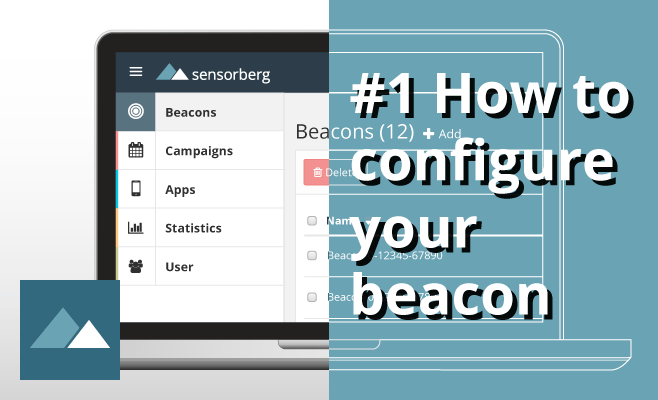
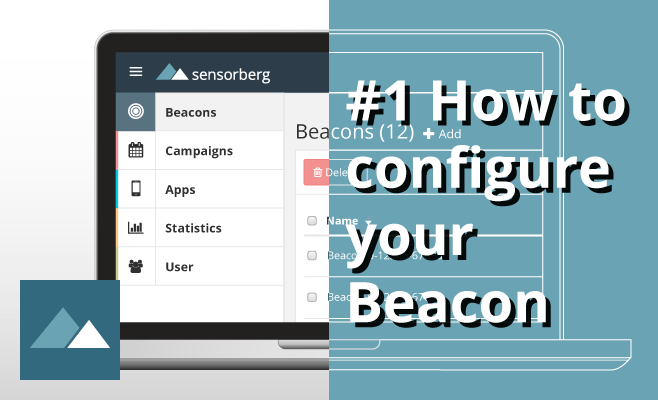
Clean up Tutorials Section
- change col-md to col-xs to fit into iframe
- adjust headline
- change images / wording
- remove padding / margin surrounding iframe content

Changed region(s): [[0.5167, 0.18, 0.9726, 0.54], [0.5167, 0.54, 0.8511, 0.84]]

diff --git a/_layouts/video-iframe.html b/_layouts/video-iframe.html
@@ -25,7 +25,7 @@
 
     .contents-block {
         text-align: justify;
-        padding-bottom: 30px;
+        padding-bottom: 10px;
     }
 
     .content
@@ -66,9 +66,7 @@
     .container3 {
         max-width: 940px;
         min-width: 320px;
-        margin: 5px auto;
-        margin-top: 40px ;
-        margin-bottom: 30px ;
+        margin: 0px auto;
         border-radius:6px;
     }
 
@@ -112,7 +110,7 @@
 </style>
 <div class="container3 container_video" >
     <div class="row">
-        <div class="col-md-8">
+        <div class="col-xs-8">
             <a href="/tutorials-iframe"><span class="back-link"><i class="fa fa-chevron-left"></i><!--<i class="fa fa-long-arrow-left"></i>--> Back to the tutorials' overview</span></a>
             <h2> {{page.title}}</h2>
         </div>
@@ -121,16 +119,16 @@
     </br>
 
     <div class="row">
-        <div class="col-md-8">
+        <div class="col-xs-8">
             <iframe class="video-iframe" width="604" height="370" src="{{page.video_url}}" frameborder="0" allowfullscreen></iframe>
         </div>
 
-        <div class="col-md-4 video-description">
+        <div class="col-xs-4 video-description">
 
             <div class="contents-block">
 
-                <b>Description</b></br>
-                {{page.description}}
+                <b>Description</b>
+                <p>{{page.description}}</p>
             </div>
 
             <div class="see-also-video">

diff --git a/_includes/tutorials-content.html b/_includes/tutorials-content.html
@@ -21,6 +21,7 @@
     .tutorials-headline {
         font-size: 32px;
         font-weight: 400;
+        padding: 0 30px 20px 30px;
     }
 
     .nav-tabs {
@@ -123,7 +124,7 @@
         {%for video in site.videos %}
         {% if video.category == "gettingStarted" %}
 
-        <div class="col-md-4">
+        <div class="col-xs-4">
             <div class="feature-block3">
                 <div class="thumbnail-width">
                     <a href="{{ video.url }}" {% if page.iframe %} target="_blank"{% endif %}><img src="{{ video.previewImage }}" alt="{{ video.title }}" class="video-thumb"></a>

diff --git a/_includes/tutorials-content-iframe.html b/_includes/tutorials-content-iframe.html
@@ -17,6 +17,7 @@
     .tutorials-headline {
         font-size: 32px;
         font-weight: 400;
+        padding: 0 30px 20px 30px;
     }
 
     .nav-tabs {
@@ -117,7 +118,7 @@
         {%for video in site.videos-iframe %}
         {% if video.category == "gettingStarted" %}
 
-        <div class="col-md-4">
+        <div class="col-xs-4">
             <div class="feature-block3">
                 <div class="thumbnail-width">
                     <a href="{{ video.url }}" ><img src="{{ video.previewImage }}" alt="{{ video.title }}" class="video-thumb"></a>

diff --git a/_videos-iframe/04-How-to-create-a-beacon-campaign.md b/_videos-iframe/04-How-to-create-a-beacon-campaign.md
@@ -1,14 +1,14 @@
 ---
 layout: video-iframe
-title: "#4 How to create a beacon campaign"
+title: "#4 How to create a Beacon campaign"
 previewImage: /images/videos/video04-how-to-create-a-beacon-campaign.png
-description: "This tutorial shows you how to manage the campaigns you want to deliver through your Beacons, using the Sensorberg Beacon Management Platform : scheduling the campaigns, designing their contents, and associating the to the Beacons that will deliver it."
+description: "This tutorial shows you how to manage the campaigns you want to deliver through your Beacons, using the Sensorberg Beacon Management Platform: scheduling the campaigns, designing their contents, and associating them to the Beacons that will deliver them."
 
 video_url: "https://www.youtube.com/embed/DqJdrziaQxE?rel=0&amp;showinfo=0"
 length : "3:16"
 category: gettingStarted
 
-see_also_text: "#5 How to test you beacon-based campaigns"
+see_also_text: "#5 How to test you Beacon-based campaigns"
 see_also_image_path: "/images/videos/video05-how-to-test-your-beacon-based-campaigns.png"
 see_also_link: "/videos-iframe/05-How-to-test-your-beacon-based-campaigns/"
 

diff --git a/_videos/04-How-to-create-a-beacon-campaign.md b/_videos/04-How-to-create-a-beacon-campaign.md
@@ -1,14 +1,14 @@
 ---
 layout: video
-title: "#4 How to create a beacon campaign"
+title: "#4 How to create a Beacon campaign"
 previewImage: /images/videos/video04-how-to-create-a-beacon-campaign.png
-description: "This tutorial shows you how to manage the campaigns you want to deliver through your Beacons, using the Sensorberg Beacon Management Platform : scheduling the campaigns, designing their contents, and associating the to the Beacons that will deliver it."
+description: "This tutorial shows you how to manage the campaigns you want to deliver through your Beacons, using the Sensorberg Beacon Management Platform: scheduling the campaigns, designing their contents, and associating them to the Beacons that will deliver them."
 
 video_url: "https://www.youtube.com/embed/DqJdrziaQxE?rel=0&amp;showinfo=0"
 length : "3:16"
 category: gettingStarted
 
-see_also_text: "#5 How to test you beacon-based campaigns"
+see_also_text: "#5 How to test you Beacon-based campaigns"
 see_also_image_path: "/images/videos/video05-how-to-test-your-beacon-based-campaigns.png"
 see_also_link: "/videos/05-How-to-test-your-beacon-based-campaigns/"
 

diff --git a/_videos-iframe/05-How-to-test-your-beacon-based-campaigns.md b/_videos-iframe/05-How-to-test-your-beacon-based-campaigns.md
@@ -1,6 +1,6 @@
 ---
 layout: video-iframe
-title: "#5 How to test your beacon-based campaigns"
+title: "#5 How to test your Beacon-based campaigns"
 previewImage: /images/videos/video05-how-to-test-your-beacon-based-campaigns.png
 description: "This tutorial shows you how to use the Sensorberg Showcase app, - available for iOS and Android - to be sure that all of your Beacons work properly, and to test your campaigns on smartphones and tablets."
 
@@ -8,7 +8,7 @@ video_url: "https://www.youtube.com/embed/ArUFbnASuKs?rel=0&amp;showinfo=0"
 length : "5:04"
 category: gettingStarted
 
-see_also_text: "#7 How to solve beacon infrastructure problems"
+see_also_text: "#7 How to solve Beacon infrastructure problems"
 see_also_image_path: "/images/videos/video07-how-to-solve-beacon-infrastructure-problems.png"
 see_also_link: "/videos-iframe/07-How-to-solve-beacon-infrastructure-problems/"
 

diff --git a/_videos/05-How-to-test-your-beacon-based-campaigns.md b/_videos/05-How-to-test-your-beacon-based-campaigns.md
@@ -1,6 +1,6 @@
 ---
 layout: video
-title: "#5 How to test your beacon-based campaigns"
+title: "#5 How to test your Beacon-based campaigns"
 previewImage: /images/videos/video05-how-to-test-your-beacon-based-campaigns.png
 description: "This tutorial shows you how to use the Sensorberg Showcase app, - available for iOS and Android - to be sure that all of your Beacons work properly, and to test your campaigns on smartphones and tablets."
 
@@ -8,7 +8,7 @@ video_url: "https://www.youtube.com/embed/ArUFbnASuKs?rel=0&amp;showinfo=0"
 length : "5:04"
 category: gettingStarted
 
-see_also_text: "#7 How to solve beacon infrastructure problems"
+see_also_text: "#7 How to solve Beacon infrastructure problems"
 see_also_image_path: "/images/videos/video07-how-to-solve-beacon-infrastructure-problems.png"
 see_also_link: "/videos/07-How-to-solve-beacon-infrastructure-problems/"
 

diff --git a/_videos-iframe/07-How-to-solve-beacon-infrastructure-problems.md b/_videos-iframe/07-How-to-solve-beacon-infrastructure-problems.md
@@ -1,6 +1,6 @@
 ---
 layout: video-iframe
-title: "#7 How to solve beacon infrastructure problems"
+title: "#7 How to solve Beacon infrastructure problems"
 previewImage: /images/videos/video07-how-to-solve-beacon-infrastructure-problems.png
 description: "This tutorial will give you some tips and technical insights to help you solve the problems you may encounter during your first steps with Beacons and Sensorberg Cloud Services."
 
@@ -10,7 +10,7 @@ category: gettingStarted
 
 ---
 
-see_also_text: "#5 How to test you beacon-based campaigns"
+see_also_text: "#5 How to test you Beacon-based campaigns"
 see_also_image_path: "/images/videos/video05-how-to-test-beacon-based-campaigns.png"
 see_also_link: "/videos-iframe/05-How-to-test-your-beacon-based-campaigns/"
 

diff --git a/_videos/07-How-to-solve-beacon-infrastructure-problems.md b/_videos/07-How-to-solve-beacon-infrastructure-problems.md
@@ -1,6 +1,6 @@
 ---
 layout: video
-title: "#7 How to solve beacon infrastructure problems"
+title: "#7 How to solve Beacon infrastructure problems"
 previewImage: /images/videos/video07-how-to-solve-beacon-infrastructure-problems.png
 description: "This tutorial will give you some tips and technical insights to help you solve the problems you may encounter during your first steps with Beacons and Sensorberg Cloud Services."
 
@@ -10,6 +10,6 @@ category: gettingStarted
 
 ---
 
-see_also_text: "#5 How to test you beacon-based campaigns"
+see_also_text: "#5 How to test you Beacon-based campaigns"
 see_also_image_path: "/images/videos/video05-how-to-test-beacon-based-campaigns.png"
 see_also_link: "/videos/05-How-to-test-your-beacon-based-campaigns/"

diff --git a/_videos-iframe/01-How-to-configure-your-beacon.md b/_videos-iframe/01-How-to-configure-your-beacon.md
@@ -1,6 +1,6 @@
 ---
 layout: video-iframe
-title: "#1 How to configure your beacon"
+title: "#1 How to configure your Beacon"
 previewImage: /images/videos/video01-how-to-configure-your-beacon.png
 description: "This tutorial shows you how to configure your iBKS Beacons, manufactured by the Sensorberg partner Accent."
 video_url: "https://www.youtube.com/embed/DViAu0hyBDE?rel=0&amp;showinfo=0"

diff --git a/_videos/01-How-to-configure-your-beacon.md b/_videos/01-How-to-configure-your-beacon.md
@@ -1,6 +1,6 @@
 ---
 layout: video
-title: "#1 How to configure your beacon"
+title: "#1 How to configure your Beacon"
 previewImage: /images/videos/video01-how-to-configure-your-beacon.png
 description: "This tutorial shows you how to configure your iBKS Beacons, manufactured by the Sensorberg partner Accent."
 video_url: "https://www.youtube.com/embed/DViAu0hyBDE?rel=0&amp;showinfo=0"

diff --git a/_videos-iframe/03-How-to-register-apps.md b/_videos-iframe/03-How-to-register-apps.md
@@ -9,7 +9,7 @@ length : "1:47"
 
 category: gettingStarted
 
-see_also_text: "#4 How to create a beacon campaign"
+see_also_text: "#4 How to create a Beacon campaign"
 see_also_image_path: "/images/videos/video04-how-to-create-a-beacon-campaign.png"
 see_also_link: "/videos-iframe/04-How-to-create-a-beacon-campaign/"
 
